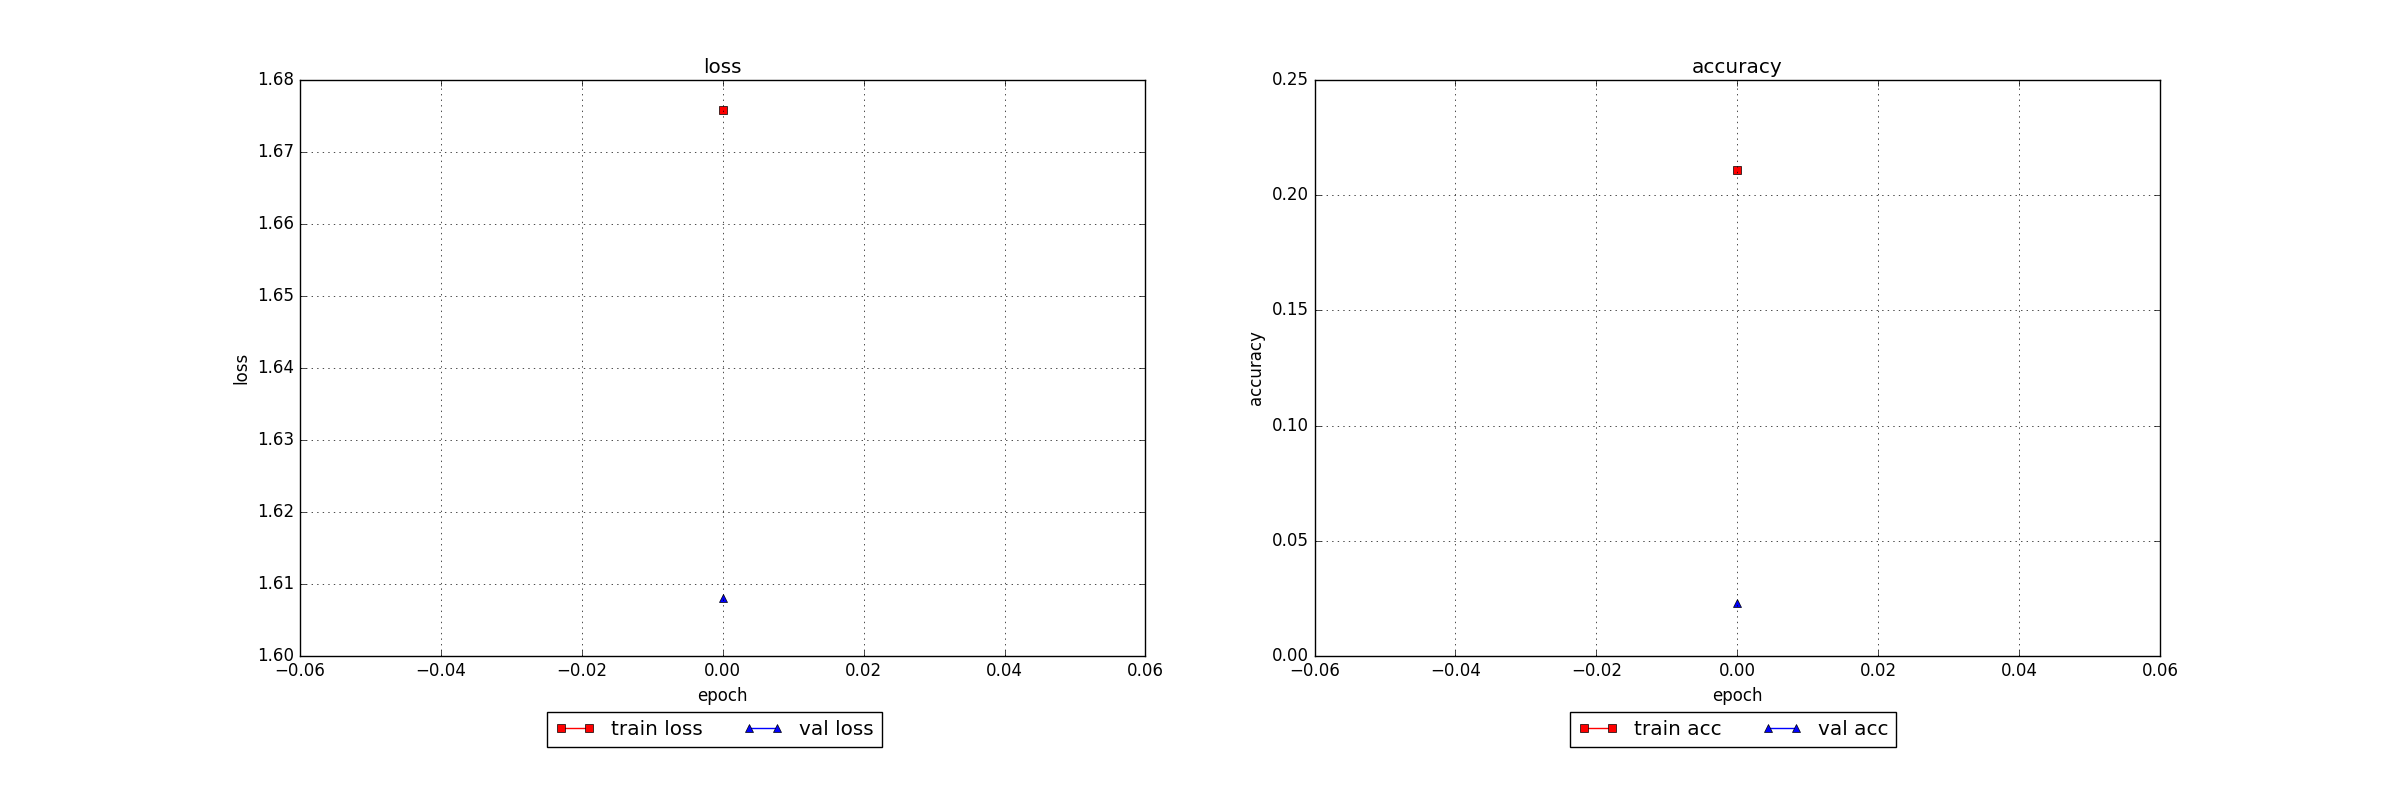
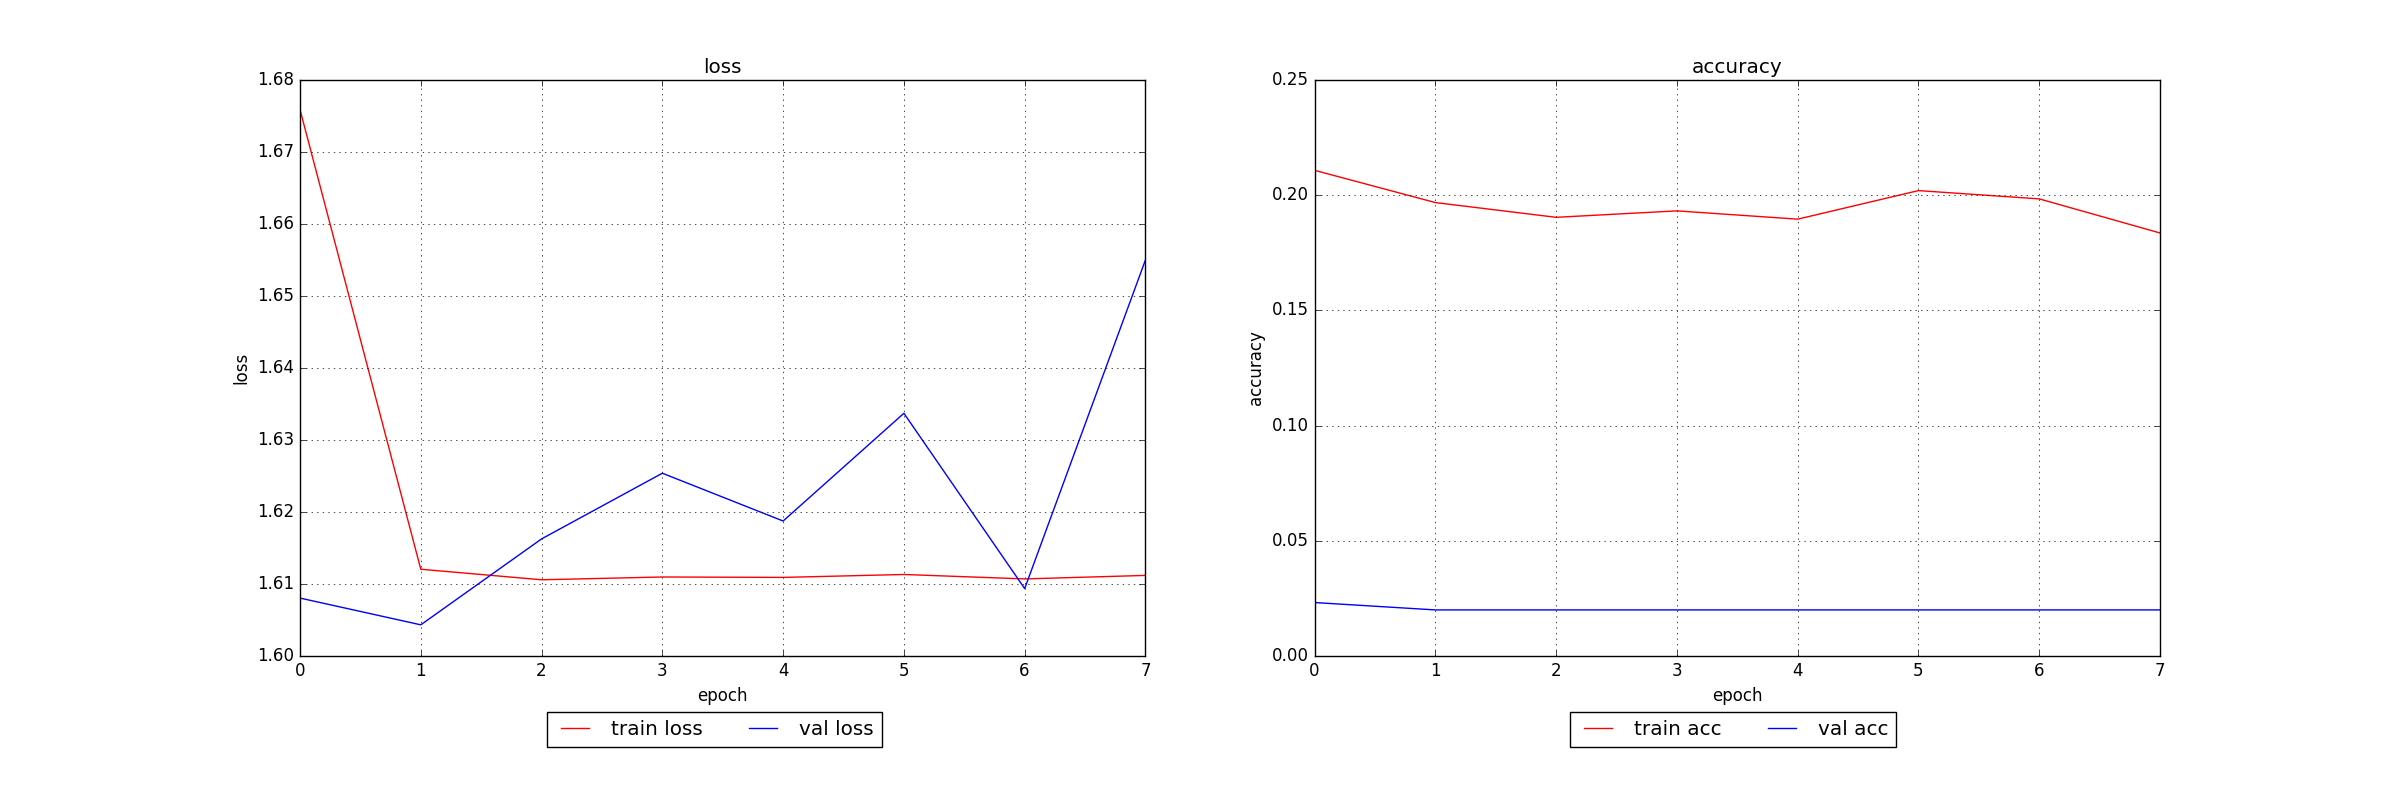
have to go deeperg

diff --git a/tiny_imagenet_classifier.py b/tiny_imagenet_classifier.py
@@ -31,7 +31,7 @@ loss_functions = ['categorical_crossentropy', 'hinge', 'squared_hinge']
 #loss_functions = ['hinge']
 # num_classes_arr = [2, 5, 8]
 # num_classes_arr = [10, 100, 200]
-num_classes_arr = [20]
+num_classes_arr = [10]
 for loss_function in loss_functions:
     for num_classes in num_classes_arr: # num classes loop
 
@@ -143,97 +143,98 @@ for loss_function in loss_functions:
         # datagen.fit(X_train)
 
         model = Sequential()
+# ======================
+        # model.add(Convolution2D(64, 3, 3, border_mode='same',
+        #                         input_shape=(3, img_rows, img_cols)))
+        # model.add(Activation('relu'))
+        # model.add(Convolution2D(64, 3, 3))
+        # model.add(Activation('relu'))
+        # model.add(MaxPooling2D(pool_size=(2, 2)))
+        # model.add(Dropout(0.25))
 
-        model.add(Convolution2D(64, 3, 3, border_mode='same',
-                                input_shape=(3, img_rows, img_cols)))
-        model.add(Activation('relu'))
-        model.add(Convolution2D(64, 3, 3))
-        model.add(Activation('relu'))
-        model.add(MaxPooling2D(pool_size=(2, 2)))
-        model.add(Dropout(0.25))
+        # model.add(Convolution2D(64, 3, 3, border_mode='same'))
+        # model.add(Activation('relu'))
+        # model.add(Convolution2D(64, 3, 3))
+        # model.add(Activation('relu'))
+        # model.add(MaxPooling2D(pool_size=(2, 2)))
+        # model.add(Dropout(0.25))
 
-        model.add(Convolution2D(64, 3, 3, border_mode='same'))
-        model.add(Activation('relu'))
-        model.add(Convolution2D(64, 3, 3))
-        model.add(Activation('relu'))
-        model.add(MaxPooling2D(pool_size=(2, 2)))
-        model.add(Dropout(0.25))
-
-        model.add(Flatten())
-        model.add(Dense(512))
-        model.add(Activation('relu'))
-        model.add(Dropout(0.5))
-        model.add(Dense(nb_classes))
-        model.add(Activation('softmax'))
+        # model.add(Flatten())
+        # model.add(Dense(512))
+        # model.add(Activation('relu'))
+        # model.add(Dropout(0.5))
+        # model.add(Dense(nb_classes))
+        # model.add(Activation('softmax'))
+# ======================
 
 
         #conv-spatial batch norm - relu #1 
-        # model.add(ZeroPadding2D((2,2),input_shape=(3,64,64)))
-        # model.add(Convolution2D(64,5,5,subsample=(2,2),W_regularizer=WeightRegularizer(l1=1e-7,l2=1e-7)))
-        # model.add(BatchNormalization(epsilon=1e-06, mode=0, axis=1, momentum=0.9))
-        # model.add(Activation('relu')) 
+        model.add(ZeroPadding2D((2,2),input_shape=(3,64,64)))
+        model.add(Convolution2D(64,5,5,subsample=(2,2),W_regularizer=WeightRegularizer(l1=1e-7,l2=1e-7)))
+        model.add(BatchNormalization(epsilon=1e-06, mode=0, axis=1, momentum=0.9))
+        model.add(Activation('relu')) 
 
-        # #conv-spatial batch norm - relu #2
-        # model.add(ZeroPadding2D((1,1)))
-        # model.add(Convolution2D(64,3,3,subsample=(1,1)))
-        # model.add(BatchNormalization(epsilon=1e-06, mode=0, axis=1, momentum=0.9))
-        # model.add(Activation('relu')) 
+        #conv-spatial batch norm - relu #2
+        model.add(ZeroPadding2D((1,1)))
+        model.add(Convolution2D(64,3,3,subsample=(1,1)))
+        model.add(BatchNormalization(epsilon=1e-06, mode=0, axis=1, momentum=0.9))
+        model.add(Activation('relu')) 
 
-        # #conv-spatial batch norm - relu #3
-        # model.add(ZeroPadding2D((1,1)))
-        # model.add(Convolution2D(128,3,3,subsample=(2,2)))
-        # model.add(BatchNormalization(epsilon=1e-06, mode=0, axis=1, momentum=0.9))
-        # model.add(Activation('relu')) 
-        # model.add(Dropout(0.25)) 
+        #conv-spatial batch norm - relu #3
+        model.add(ZeroPadding2D((1,1)))
+        model.add(Convolution2D(128,3,3,subsample=(2,2)))
+        model.add(BatchNormalization(epsilon=1e-06, mode=0, axis=1, momentum=0.9))
+        model.add(Activation('relu')) 
+        model.add(Dropout(0.25)) 
 
-        # #conv-spatial batch norm - relu #4
-        # model.add(ZeroPadding2D((1,1)))
-        # model.add(Convolution2D(128,3,3,subsample=(1,1)))
-        # model.add(BatchNormalization(epsilon=1e-06, mode=0, axis=1, momentum=0.9))
-        # model.add(Activation('relu')) 
+        #conv-spatial batch norm - relu #4
+        model.add(ZeroPadding2D((1,1)))
+        model.add(Convolution2D(128,3,3,subsample=(1,1)))
+        model.add(BatchNormalization(epsilon=1e-06, mode=0, axis=1, momentum=0.9))
+        model.add(Activation('relu')) 
 
-        # #conv-spatial batch norm - relu #5
-        # model.add(ZeroPadding2D((1,1)))
-        # model.add(Convolution2D(256,3,3,subsample=(2,2)))
-        # model.add(BatchNormalization(epsilon=1e-06, mode=0, axis=1, momentum=0.9))
-        # model.add(Activation('relu')) 
+        #conv-spatial batch norm - relu #5
+        model.add(ZeroPadding2D((1,1)))
+        model.add(Convolution2D(256,3,3,subsample=(2,2)))
+        model.add(BatchNormalization(epsilon=1e-06, mode=0, axis=1, momentum=0.9))
+        model.add(Activation('relu')) 
 
-        # #conv-spatial batch norm - relu #6
-        # model.add(ZeroPadding2D((1,1)))
-        # model.add(Convolution2D(256,3,3,subsample=(1,1)))
-        # model.add(BatchNormalization(epsilon=1e-06, mode=0, axis=1, momentum=0.9))
-        # model.add(Activation('relu')) 
-        # model.add(Dropout(0.25))
+        #conv-spatial batch norm - relu #6
+        model.add(ZeroPadding2D((1,1)))
+        model.add(Convolution2D(256,3,3,subsample=(1,1)))
+        model.add(BatchNormalization(epsilon=1e-06, mode=0, axis=1, momentum=0.9))
+        model.add(Activation('relu')) 
+        model.add(Dropout(0.25))
 
-        # #conv-spatial batch norm - relu #7
-        # model.add(ZeroPadding2D((1,1)))
-        # model.add(Convolution2D(512,3,3,subsample=(2,2)))
-        # model.add(BatchNormalization(epsilon=1e-06, mode=0, axis=1, momentum=0.9))
-        # model.add(Activation('relu')) 
+        #conv-spatial batch norm - relu #7
+        model.add(ZeroPadding2D((1,1)))
+        model.add(Convolution2D(512,3,3,subsample=(2,2)))
+        model.add(BatchNormalization(epsilon=1e-06, mode=0, axis=1, momentum=0.9))
+        model.add(Activation('relu')) 
 
-        # #conv-spatial batch norm - relu #8
-        # model.add(ZeroPadding2D((1,1)))
-        # model.add(Convolution2D(512,3,3,subsample=(1,1)))
-        # model.add(BatchNormalization(epsilon=1e-06, mode=0, axis=1, momentum=0.9))
-        # model.add(Activation('relu')) 
+        #conv-spatial batch norm - relu #8
+        model.add(ZeroPadding2D((1,1)))
+        model.add(Convolution2D(512,3,3,subsample=(1,1)))
+        model.add(BatchNormalization(epsilon=1e-06, mode=0, axis=1, momentum=0.9))
+        model.add(Activation('relu')) 
         
 
-        # #conv-spatial batch norm - relu #9
-        # model.add(ZeroPadding2D((1,1)))
-        # model.add(Convolution2D(1024,3,3,subsample=(2,2)))
-        # model.add(BatchNormalization(epsilon=1e-06, mode=0, axis=1, momentum=0.9))
-        # model.add(Activation('relu'))
-        # model.add(Dropout(0.25)) 
+        #conv-spatial batch norm - relu #9
+        model.add(ZeroPadding2D((1,1)))
+        model.add(Convolution2D(1024,3,3,subsample=(2,2)))
+        model.add(BatchNormalization(epsilon=1e-06, mode=0, axis=1, momentum=0.9))
+        model.add(Activation('relu'))
+        model.add(Dropout(0.25)) 
 
-        # #Affine-spatial batch norm -relu #10 
-        # model.add(Flatten())
-        # model.add(Dense(512,W_regularizer=WeightRegularizer(l1=1e-5,l2=1e-5)))
-        # model.add(BatchNormalization(epsilon=1e-06, mode=0, axis=1, momentum=0.9))
-        # model.add(Activation('relu')) 
-        # model.add(Dropout(0.5)) 
+        #Affine-spatial batch norm -relu #10 
+        model.add(Flatten())
+        model.add(Dense(512,W_regularizer=WeightRegularizer(l1=1e-5,l2=1e-5)))
+        model.add(BatchNormalization(epsilon=1e-06, mode=0, axis=1, momentum=0.9))
+        model.add(Activation('relu')) 
+        model.add(Dropout(0.5)) 
 
-        # #affine layer w/ softmax activation added 
-        # model.add(Dense(num_classes,activation='softmax',W_regularizer=WeightRegularizer(l1=1e-5,l2=1e-5)))#pretrained weights assume only 100 outputs, we need to train this layer from scratch
+        #affine layer w/ softmax activation added 
+        model.add(Dense(num_classes,activation='softmax',W_regularizer=WeightRegularizer(l1=1e-5,l2=1e-5)))#pretrained weights assume only 100 outputs, we need to train this layer from scratch
 
         # if loss_function is 'categorical_crossentropy':
        # model.add(Activation('softmax'))
